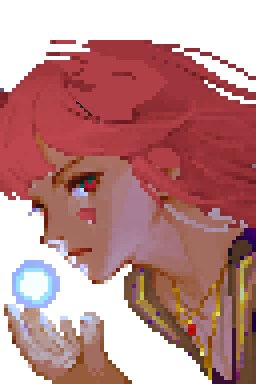
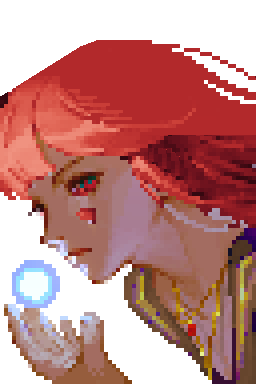
One pixel size for everyone; Kaela's portrait hair redone
GOLEM is a little higher-bit (2-px art pixels, five flat tones); DOT, PYRO
and NOVA a little lower-bit (2-px art pixels, roaming and in battle).
Portrait: the top of her head is redrawn where the horn crossed it, the
horn is cloned over with real hair, its shadow lifted, and the hair keeps
its shine on a red ramp.

Claude-Session: https://claude.ai/code/session_01UNt9ADw9RWeqLunFCdx2ho

Changed region(s): [[0.0, 0.0938, 1.0, 0.5625], [0.2812, 0.4688, 0.375, 0.5938], [0.9688, 0.5625, 1.0, 0.5938]]

diff --git a/site/js/pixel/nova-mate.js b/site/js/pixel/nova-mate.js
@@ -31,7 +31,8 @@ export class NovaMate {
     const k = size / 96;
     this.figure.style.width = size + "px"; this.figure.style.height = 115 * k + "px";
     // The canvas is bigger than the figure so the planets and the portal have room.
-    const W = 160, H = 170;
+    // drawn at half size and shown 2x: art pixels 2 CSS px, like DOT, PYRO and GOLEM (Isaac 2026-10-23)
+    const W = 80, H = 85;
     this.nova = new PixelNova(this.figure, { kind: "mooncloak", w: W, h: H, px: k, view: 4.79, half: true, shadow: false });   // view 4.79 (was 5.03): 5% bigger, Isaac 2026-10-21
     this.resize(size);
     this.tweens = [];
@@ -46,7 +47,7 @@ export class NovaMate {
 
   // Show her at a new size (the battle stage scales with its height).
   resize(size) {
-    const k = size / 96, W = this.nova.canvas.width, H = this.nova.canvas.height;
+    const k = size / 96, W = this.nova.canvas.width * 2, H = this.nova.canvas.height * 2;   // (the canvas is half size)
     this.figure.style.width = size + "px"; this.figure.style.height = 115 * k + "px";
     Object.assign(this.nova.canvas.style, { width: W * k + "px", height: H * k + "px", left: (size - W * k) / 2 + "px", top: (115 * k - H * k) / 2 + "px" });
   }

diff --git a/site/golem2d-preview.html b/site/golem2d-preview.html
@@ -31,7 +31,7 @@ import { PixelGolem } from "./js/pixel/golem-px.js";
 const wrap = document.getElementById("wrap"), host = document.getElementById("golem");
 const eng = createEngine(wrap, await loadArt("./"), { ha: 180 });
 eng.hideFoe();
-const LOOKS = { "Now (hi-bit)": { chunk: 1, flat: false }, "2D, Kaela's pixel size": { chunk: 440 / 180, flat: true }, "2D, a bit finer": { chunk: 2, flat: true } };
+const LOOKS = { "Hi-bit (before)": { chunk: 1, flat: false }, "2D (in the game)": { chunk: 2, flat: true }, "2D, chunkier": { chunk: 440 / 180, flat: true } };
 let golem = null;
 function show(name) {
   host.replaceChildren();
@@ -42,7 +42,7 @@ function show(name) {
   document.querySelectorAll("#looks button").forEach((b) => b.classList.toggle("on", b.textContent === name));
 }
 for (const name of Object.keys(LOOKS)) { const b = document.createElement("button"); b.textContent = name; b.onclick = () => show(name); document.getElementById("looks").append(b); }
-show("2D, Kaela's pixel size");
+show("2D (in the game)");
 window.__look = (i) => show(Object.keys(LOOKS)[+i]);
 </script>
 </body>

diff --git a/site/js/boss-fight.js b/site/js/boss-fight.js
@@ -128,7 +128,7 @@ export class BattleStage {
     this.fx = new BattleFX(this.stage, world, { floor: 0.8 });
     // 512 art px wide (default 416): room for his arms when they swing out, so they don't run off his canvas
     if (this.isBoss) {
-      this.golem = new PixelGolem(foeEl, { px: 1, w: GOLEM_W, chunk: 440 / 180, flat: true });   // the 2D GOLEM (Addendum M): Kaela-sized pixels, flat tones
+      this.golem = new PixelGolem(foeEl, { px: 1, w: GOLEM_W, chunk: 2, flat: true });   // the 2D GOLEM (Addendum M): 2-px art pixels like everyone else, flat tones
       this.boss = new PixelBoss({ golem: this.golem, fx: this.fx, figure: foeEl });
     } else {
       // a small enemy: the same interface as GOLEM (enemy-px.js), so every ability works on it

diff --git a/site/js/pixel/pixel-gl.js b/site/js/pixel/pixel-gl.js
@@ -105,7 +105,7 @@ void main(){
   float dz = max(abs(at(p+ivec2(1,0)).b - t.b), abs(at(p+ivec2(0,1)).b - t.b));
   int nm = max(matOf(at(p+ivec2(1,0))), matOf(at(p+ivec2(0,1))));
   float idx = floor(clamp(sh*6. + (d-.5)*.9, 0., 5.99));
-  if (uFlat > 0.) idx = sh < .34 ? 1. : sh < .66 ? 2. : sh < .9 ? 3. : 4.;   // flat: shadow, base, light, and a thin rim where it's brightest
+  if (uFlat > 0.) idx = sh < .26 ? 1. : sh < .48 ? 2. : sh < .7 ? 3. : sh < .9 ? 4. : 5.;   // flat: five tones (Isaac 2026-10-23: "a little more higher bit")
   if (dz > .025 && m != 3 && m != 4) idx = uFlat > 0. ? 0. : max(idx-2., 0.);   // flat: inner lines in the darkest tone
   vec3 c = uPal[(m-1)*6 + int(idx)];
   if (uFlash > 0. && (d < uFlash)) c = vec3(1.);

diff --git a/site/js/pixel/pixelize.js b/site/js/pixel/pixelize.js
@@ -35,8 +35,9 @@ export class Pixelizer {
   layout() {
     const w = this.svg.clientWidth, h = this.svg.clientHeight;
     if (!w || !h) return false;
-    // One art pixel is 2 screen pixels when he's big (battle), 1 when he's roaming size.
-    const k = w >= 130 ? 2 : 1;
+    // One art pixel is 2 of his own CSS pixels, roaming and in battle (where the whole stage is
+    // scaled), the same size as GOLEM's and NOVA's (Isaac 2026-10-23: one consistent pixel size).
+    const k = 2;
     const W = Math.round(w * (1 + 2 * this.pad) / k), H = Math.round(h * (1 + 2 * this.pad) / k);
     if (this.canvas.width !== W || this.canvas.height !== H || this.k !== k) {
       this.canvas.width = W; this.canvas.height = H; this.k = k;

diff --git a/tools/recolour-portrait.py b/tools/recolour-portrait.py
@@ -1,91 +1,80 @@
 # Restyle Kaela's portrait to match her sprites (PRD Addendum L, kaela_style.py): no horns,
 # darker red hair, red eyes, brown leather coat. The portrait is painterly (many shades, 4x4
-# blocks), so it's done by region and colour rather than an exact palette:
-#   horn   dark pixels in a band along the horn's diagonal (tip top-left to its root in the hair);
-#          where it sticks out above her head it's erased, inside her hair it's painted over
-#          with the hair round it (filled in from the edges, one ring at a time, with the most common
-#          neighbouring hair colour)
-#   hair   bright, cool-toned pixels (blue >= red) above her hand and the orb: brightness kept, hue red
-#   eyes   the saturated cyan iris -> red
-#   coat   saturated blue -> leather brown, same brightness
-# Isaac 2026-10-23: the first version left the horn's tip and the white fringe.
+# blocks), so it's done by region and colour rather than an exact palette.
+#   head   where the horn crossed the top of her head, the outline is set by hand (TOP below):
+#          everything above it goes (the horn's tip and its stripes)
+#   horn   the horn's pixels inside her hair, and the dark outline pixels it left there, are
+#          painted over by cloning real hair from further along the strands (down and to the right)
+#   hair   bright, cool-toned pixels: each one's brightness is mapped onto a red ramp from deep
+#          maroon to pale coral, so the shine and the strands of the original survive
+#   eyes   the saturated cyan iris -> red;  coat  saturated blue -> leather brown
+# Isaac 2026-10-23: earlier versions left the horn's tip, a horn-shaped patch and flat hair.
 # usage: python3 -I recolour-portrait.py <in.png> <out.png>
 import sys, colorsys, numpy as np
 from PIL import Image
 im = np.asarray(Image.open(sys.argv[1]).convert("RGBA")).astype(float)
 H, W = im.shape[:2]
+yy, xx = np.mgrid[0:H, 0:W]
 def hsv(img):
     rgb = img[..., :3] / 255; r, g, b = rgb[..., 0], rgb[..., 1], rgb[..., 2]
     mx, mn = rgb.max(2), rgb.min(2); c = mx - mn + 1e-6
     s = np.where(mx > 0, (mx - mn) / np.maximum(mx, 1e-6), 0)
     hue = np.where(mx == r, ((g - b) / c) % 6, np.where(mx == g, (b - r) / c + 2, (r - g) / c + 4)) * 60
     return hue, s, mx
-yy, xx = np.mgrid[0:H, 0:W]
 on = im[..., 3] > 0
 hue, s, v = hsv(im)
-R, G, B = im[..., 0], im[..., 1], im[..., 2]
-low = yy > H * 0.62   # her hand and the orb: left as they are
-# hair is clearly bluer than red (the horn's light mauve isn't) or near-white; only big connected
-# areas (small cool patches on her face, like the mark under her eye, stay as they are)
-cand = on & ~low & (v > 0.5) & ((B >= R + 8) | ((s < 0.12) & (v > 0.8)))
-hairish = np.zeros_like(cand); seen = np.zeros_like(cand)
-for y0, x0 in zip(*np.nonzero(cand)):
-    if seen[y0, x0]: continue
-    comp, st = [], [(y0, x0)]; seen[y0, x0] = True
-    while st:
-        y, x = st.pop(); comp.append((y, x))
-        for dy, dx in ((1, 0), (-1, 0), (0, 1), (0, -1)):
-            y2, x2 = y + dy, x + dx
-            if 0 <= y2 < H and 0 <= x2 < W and cand[y2, x2] and not seen[y2, x2]: seen[y2, x2] = True; st.append((y2, x2))
-    if len(comp) >= 120:
-        for p in comp: hairish[p] = True
-hairish |= cand & (yy < 150)   # thin strands round the top of her head (above her eye) are hair too
+R, B = im[..., 0], im[..., 2]
+low = yy > H * 0.62   # her hand and the orb stay as they are
+cool = on & ~low & (v > 0.5) & ((B >= R + 8) | ((s < 0.12) & (v > 0.8)))
 
-# ---- the horn: dark pixels near the segment from its tip to where it meets her hair ----
+# ---- the top of her head where the horn crossed it (x: the outline's y), set by hand ----
+TOP = [(0, 96), (16, 86), (32, 76), (48, 66), (64, 56), (80, 46), (96, 40), (112, 39)]
+top_y = np.interp(np.arange(W), [p[0] for p in TOP], [p[1] for p in TOP], right=-1)
+above = on & (xx <= 112) & (yy < top_y[xx])
+im[above, 3] = 0
+on = im[..., 3] > 0
+
+# ---- the horn inside her hair: a band along it, plus dark outline pixels it left behind ----
 A, Bp = np.array([10.0, 18.0]), np.array([172.0, 112.0])
 d = Bp - A; t = np.clip(((xx - A[0]) * d[0] + (yy - A[1]) * d[1]) / (d @ d), 0, 1)
 dist = np.hypot(xx - (A[0] + t * d[0]), yy - (A[1] + t * d[1]))
-horn = on & ~hairish & (dist < 18 + 38 * t)
-# outside her head: the tip (top-left, where no hair is above or to the left of it)
-head_rows = np.zeros(H, int) + W
-for y in range(H):
-    xs = np.nonzero(hairish[y])[0]
-    if len(xs): head_rows[y] = xs.min()
-outside = horn & (xx < head_rows[yy] - 2)
-im[outside, 3] = 0
-fill = horn & ~outside
-known = on & ~horn
-for _ in range(80):
-    if not fill.any(): break
-    nxt = fill.copy()
-    for y, x in zip(*np.nonzero(fill)):
-        ns = [(y + dy, x + dx) for dy in (-1, 0, 1) for dx in (-1, 0, 1) if (dy or dx) and 0 <= y + dy < H and 0 <= x + dx < W and known[y + dy, x + dx] and hairish[y + dy, x + dx]]
-        if len(ns) < 2: continue
-        cs = [tuple(im[p][:3]) for p in ns]   # the most common neighbouring hair colour (an average smudged a horn-shaped shadow)
-        im[y, x, :3] = max(set(cs), key=lambda c: (cs.count(c), sum(c))); im[y, x, 3] = 255
-        hairish[y, x] = True; nxt[y, x] = False
-    known |= fill & ~nxt; fill = nxt
-im[fill, 3] = 0   # anything left over had no hair round it
-# The hair right under the horn was painted in its shadow, so a fill from the edges carried that
-# shadow and left a darker horn shape. The painted-over part gets the hair's typical colour around
-# the top of her head instead (the median, lighter half).
-filled = horn & ~outside & (im[..., 3] > 0)
-top = hairish & ~horn & (yy < 150) & (im[..., 3] > 0)
-vals = im[top][:, :3]; br = vals.sum(1)
-im[filled, :3] = np.median(vals[br >= np.median(br)], 0)
+band = dist < 22 + 46 * t
+horn = on & band & (~cool | (v < 0.3))
+horn |= on & (yy < 125) & (xx < 180) & (v < 0.55) & band   # leftover dark outline bits and the shadow the horn cast on her hair
+hair = on & cool & ~horn
+# clone: each horn pixel takes the pixel further along the strands (down-right), the first that's real hair
+src = np.zeros(horn.shape + (3,))
+for y, x in zip(*np.nonzero(horn)):
+    for k in range(1, 12):
+        y2, x2 = y + 7 * k, x + 13 * k
+        if y2 >= H or x2 >= W: break
+        if hair[y2, x2] and v[y2, x2] > 0.62: src[y, x] = im[y2, x2, :3]; break   # lit hair only (dark strand lines made stripes)
+    else:
+        src[y, x] = np.median(im[hair & (yy < 150)][:, :3], 0)
+im[horn, :3] = src[horn]; im[horn, 3] = 255
+hair |= horn
 
-# ---- hair, eyes, coat ----
+# ---- colours ----
 hue, s, v = hsv(im)
 on = im[..., 3] > 0
+L = (0.3 * im[..., 0] + 0.59 * im[..., 1] + 0.11 * im[..., 2]) / 255
+# her hair's red ramp, dark to light (darker red: Isaac 2026-10-23)
+RAMP = np.array([(52, 8, 16), (98, 16, 28), (146, 28, 36), (180, 42, 44), (206, 66, 58), (226, 104, 88), (240, 146, 128)], float)   # the top is a soft coral, not pink-white
+lo, hi = np.percentile(L[hair], 2), np.percentile(L[hair], 99.5)
+# the shadow the horn cast on her hair makes no sense without it: there, dark hair is lifted to
+# the hair's typical brightness
+shadow = hair & (dist < 40 + 50 * t) & (yy < 135)
+L = np.where(shadow, np.maximum(L, np.median(L[hair & ~shadow])), L)
+k = np.clip((L - lo) / (hi - lo), 0, 1) ** 1.15 * (len(RAMP) - 1)
+i0 = np.floor(k).astype(int).clip(0, len(RAMP) - 2); f = (k - i0)[..., None]
+red = RAMP[i0] * (1 - f) + RAMP[i0 + 1] * f
 out = im.copy()
-for y, x in zip(*np.nonzero(hairish & on)):   # darker red (Isaac 2026-10-23), brightness kept
-    R_, G_, B_ = colorsys.hsv_to_rgb(0.99, 0.62 + 0.25 * (1 - v[y, x]), v[y, x] * 0.74)
-    out[y, x, :3] = (R_ * 255, G_ * 255, B_ * 255)
+out[hair, :3] = red[hair]
 iris = on & (hue > 175) & (hue < 205) & (s > 0.6) & (v > 0.4) & ~low
-coat = on & (hue > 215) & (hue < 265) & (s > 0.6) & ~hairish
+coat = on & (hue > 215) & (hue < 265) & (s > 0.6) & ~hair
 for y, x in zip(*np.nonzero(iris)):
     R_, G_, B_ = colorsys.hsv_to_rgb(0.985, 0.85, min(1, v[y, x] * 0.95)); out[y, x, :3] = (R_ * 255, G_ * 255, B_ * 255)
 for y, x in zip(*np.nonzero(coat)):   # leather: warm brown
     R_, G_, B_ = colorsys.hsv_to_rgb(0.07, 0.55, min(1, 0.18 + v[y, x] * 0.45)); out[y, x, :3] = (R_ * 255, G_ * 255, B_ * 255)
 Image.fromarray(out.astype(np.uint8)).save(sys.argv[2])
-print("hair", int((hairish & on).sum()), "horn", int(horn.sum()), "erased", int(outside.sum()))
+print("hair", int(hair.sum()), "horn", int(horn.sum()), "cut above the head", int(above.sum()))

diff --git a/CLAUDE.md b/CLAUDE.md
@@ -329,6 +329,15 @@ Isaac's boot.dev-style Python learning app. There are two versions:
     - Claw tip straight, no hook.
     - Shop has a **Characters** section above "Your teammate": Kaela with `portrait-red.png`.
     - Portrait redone by `tools/recolour-portrait.py`: the horn tip is erased; the horn inside the hair is filled with the hair's median colour (an edge fill had carried the horn's shadow); hair = clearly-blue-over-red pixels in big areas, plus thin strands above her eye.
+  - 2026-10-23, consistency round (Isaac: GOLEM "a little more higher bit", DOT, PYRO and NOVA "a little more lower bit"): **every character has 2-px art pixels.**
+    - GOLEM: chunk 2 with 5 flat tones.
+    - DOT and PYRO: the Pixelizer always uses k = 2.
+    - NOVA: her canvas is 80×85, shown at 2× (`resize` doubles it).
+  - Kaela's portrait, round 3 (`tools/recolour-portrait.py`):
+    - A hand-set outline for the top of her head (`TOP`); everything above it goes.
+    - The horn and its dark leftovers inside the hair are cloned over from lit hair further along the strands.
+    - The horn's cast shadow is lifted to typical hair brightness.
+    - Hair brightness is mapped onto a 7-step red ramp, deep maroon to soft coral, so the shine survives.
   - Next: the fighter-picker boss fight with Kaela in it; Kaela's 7 abilities redesigned (review after 3); phases, telegraphs, skill-covering challenges.
   - Original summary:
   - Scrap "every level is a fight". Back to the roaming companion in lessons, with companion collecting.
